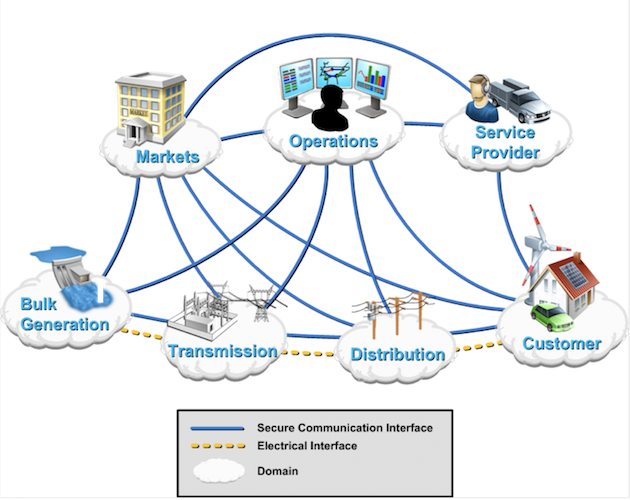
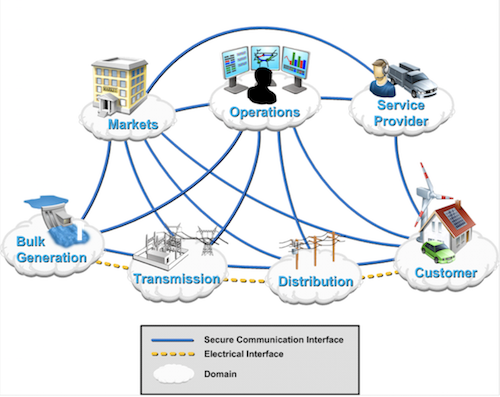
updates

diff --git a/PITCHME.md b/PITCHME.md
@@ -66,8 +66,7 @@ Develop and test a multi-agent simulation tool that
 
 | What defines an agent? |
 |:---:|
-![Smart Grid Domain]()
----?image=assets/grid/20180620_NIST_conceptualModel.png&position=center&size=55% 100%
+![Smart Grid Domain](assets/grid/20180620_NIST_conceptualModel.png)
 
 @size[0.7em](NIST Smart Grid Domains)
 
